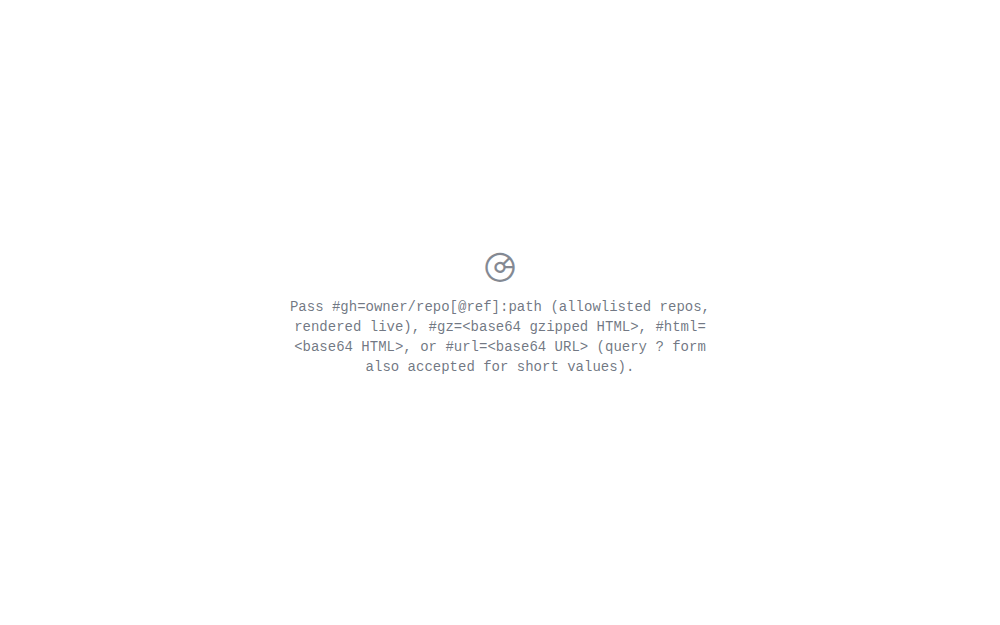
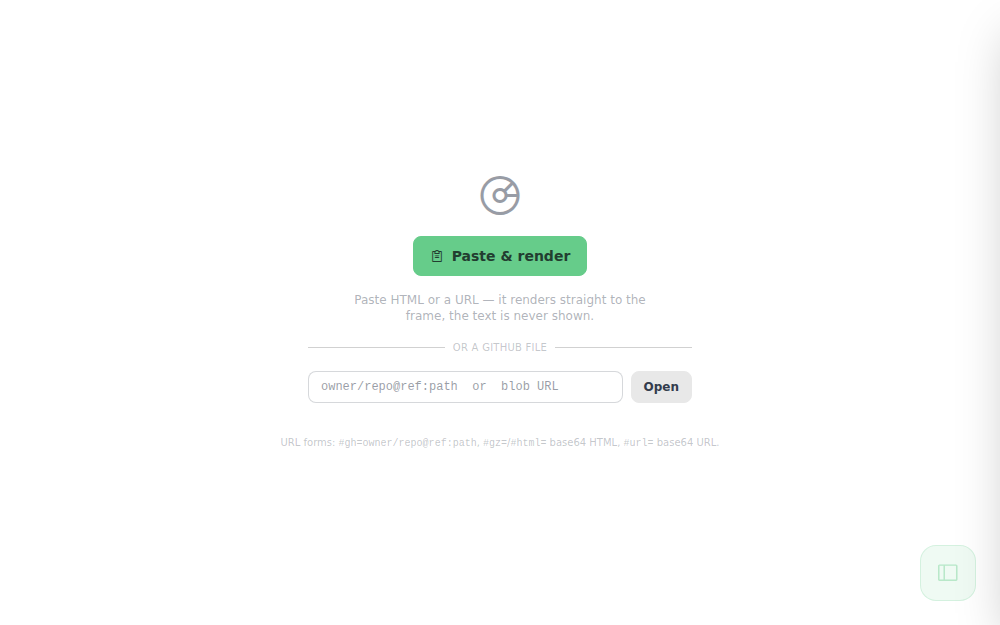
toss-render: add paste-to-render, GitHub-file input, and the FAB toolbox
Make the page dual-purpose without touching its trust model. The existing
URL-param modes (#gh=/#gz=/#html=/#url=) and the sandbox-vs-same-origin
split are unchanged; everything here is additive on-page input.

- Empty state becomes an input panel: a "Paste & render" button using the
  Clipboard API (one tap on iOS, the pasted text is never shown) plus a
  global paste listener. Pasted HTML renders sandboxed; a bare URL loads
  via #url; a github.com/.../blob/<ref>/<path> URL routes to trusted #gh=.
- A GitHub-file field accepts owner/repo[@user]:path or a blob URL and feeds
  showAddress() — private repos via the same localStorage.ghToken show-repo
  uses, gated by the OWNERS allowlist.
- A "Copy toss link" pill rebuilds the durable #gz=/#url=/#gh= bookmark for
  whatever is on screen, so a paste can become a saved link.
- The FAB (alpineComponents/fab.js) mounts as a toolbox (zip/offline export,
  component/script/console tabs, render-at-ref). It boots after the render
  logic and self-loads its kits, so a blocked CDN degrades to render-only.

Claude-Session: https://claude.ai/code/session_01L36ozjjBh6CQdDzpUkeDFH

diff --git a/pages/toss-render.html b/pages/toss-render.html
@@ -12,7 +12,8 @@
 
 <!--
   toss-render.html — full-viewport render of HTML that GitHub Pages isn't
-  serving. Formerly embed.html. Two kinds of input, with opposite trust:
+  serving. Formerly embed.html. Three ways in: a URL param, a paste, or the
+  on-page GitHub-file field. Two trust levels, opposite handling:
 
   Payload modes (the 🥏 toss — content rides in on the URL, UNTRUSTED):
     #gz=<base64url of gzipped HTML>   inline HTML, gzip-compressed
@@ -20,7 +21,8 @@
     #url=<base64 of absolute URL>     iframe src points at the URL
   Anyone can craft a toss link, so payloads render in a sandbox WITHOUT
   allow-same-origin: scripts run, but under an opaque origin that cannot
-  read this origin's localStorage (which can hold a gh token).
+  read this origin's localStorage (which can hold a gh token). Pasted HTML
+  and pasted URLs are treated as payloads too: same untrusted sandbox.
 
   Address mode (fetched by reference, TRUSTED via allowlist):
     #gh=<owner>/<repo>[@<ref>]:<path>
@@ -34,7 +36,21 @@
   below. A crafted link to someone else's repo is refused outright, so the
   token can neither fetch it nor be exposed to it. The ':' before <path> is
   unambiguous because git forbids ':' in ref names. No @ref means the
-  repo's default branch (and no ?use shim).
+  repo's default branch (and no ?use shim). The on-page field and a pasted
+  github.com/.../blob/<ref>/<path> URL both route here, so a private file is
+  one paste away.
+
+  Empty state: with no input, the page shows a panel — a "Paste & render"
+  button (Clipboard API, so it works from one tap on iOS without revealing
+  the text) and a field for a GitHub file. A global paste listener catches
+  desktop Ctrl/Cmd-V too. Whatever renders, a "Copy toss link" control then
+  rebuilds the durable bookmark (#gz=/#url=/#gh=) for what's on screen.
+
+  The FAB (alpineComponents/fab.js) mounts as a toolbox: zip/offline export,
+  the component/script/console tabs, and "Open at ref in toss-render". It
+  boots after the render logic and self-loads its own kits, so a blocked CDN
+  degrades to render-only rather than breaking the page. ?use=<ref> pins the
+  FAB's lib chain to a branch/tag/sha for previewing edits to this shell.
 
   Params are read from the fragment (#) first, then the query string (?).
   Payloads must use the fragment (a query string travels in the HTTP request
@@ -53,17 +69,45 @@
   javascript:(async()=>{const m=location.hostname==='github.com'&&location.pathname.match(/^\/([^/]+)\/([^/]+)\/blob\/([^/]+)\/(.+)$/);if(!m)return alert('Run this from a github.com file (blob) page');const[,owner,repo,ref,path]=m;let text=document.querySelector('#read-only-cursor-text-area')?.value;if(!text){try{const d=JSON.parse(document.querySelector('script[data-target="react-app.embeddedData"]')?.textContent||'{}');text=d?.payload?.blob?.rawLines?.join('\n');}catch(e){}}if(!text){try{const r=await fetch(`https://raw.githubusercontent.com/${owner}/${repo}/${ref}/${path}`);if(r.ok)text=await r.text();}catch(e){}}if(!text)return alert('Could not read the file contents from this page');if(!/<base[\s>]/i.test(text)){const dir=path.split('/').slice(0,-1).join('/');const base=`https://cdn.jsdelivr.net/gh/${owner}/${repo}@${ref}/${dir?dir+'/':''}`;text=/<head[^>]*>/i.test(text)?text.replace(/<head[^>]*>/i,h=>`${h}<base href="${base}">`):`<base href="${base}">`+text;}const buf=new Uint8Array(await new Response(new Blob([text]).stream().pipeThrough(new CompressionStream('gzip'))).arrayBuffer());let s='';for(const c of buf)s+=String.fromCharCode(c);const b64=btoa(s).replace(/\+/g,'-').replace(/\//g,'_').replace(/=+$/,'');location.href=`https://mehrlander.github.io/web-tools/pages/toss-render.html#gz=${b64}`;})()
 -->
 </head>
-<body class="h-dvh m-0">
+<body class="h-dvh m-0 bg-base-100">
 
 <iframe id="frame"
-        class="w-full h-full border-0 block bg-base-100"
+        class="w-full h-full border-0 block bg-base-100 hidden"
         referrerpolicy="no-referrer"
         allow="fullscreen"></iframe>
 
-<div id="empty" class="hidden h-full w-full flex-col items-center justify-center gap-3 p-8 text-center font-mono text-sm">
-  <i class="ph ph-disc text-4xl opacity-60"></i>
-  <p class="text-base-content/70 max-w-md" id="empty-msg"></p>
+<!-- Contextual actions, shown only while content is rendered. -->
+<div id="bar" class="hidden fixed top-2 left-1/2 -translate-x-1/2 z-40 items-center gap-1 rounded-full bg-base-100/90 backdrop-blur border border-base-300 shadow px-1.5 py-1">
+  <button id="copy-link" class="btn btn-ghost btn-xs gap-1"><i class="ph ph-link"></i><span>Copy toss link</span></button>
+  <button id="new-toss" class="btn btn-ghost btn-xs btn-circle" title="New toss"><i class="ph ph-x"></i></button>
 </div>
+
+<!-- Input panel (empty state). -->
+<div id="empty" class="hidden h-full w-full flex-col items-center justify-center gap-4 p-8 text-center">
+  <i class="ph ph-disc text-5xl opacity-50"></i>
+
+  <button id="paste-btn" class="btn btn-primary gap-2"><i class="ph ph-clipboard-text"></i>Paste &amp; render</button>
+  <div class="text-xs text-base-content/40 max-w-xs">Paste HTML or a URL — it renders straight to the frame, the text is never shown.</div>
+
+  <div class="flex items-center gap-2 w-full max-w-sm">
+    <div class="flex-1 h-px bg-base-300"></div>
+    <span class="text-[10px] uppercase tracking-wide text-base-content/30">or a GitHub file</span>
+    <div class="flex-1 h-px bg-base-300"></div>
+  </div>
+  <form id="addr-form" class="flex w-full max-w-sm gap-2">
+    <input id="addr-input" class="input input-sm input-bordered flex-1 font-mono text-xs"
+           placeholder="owner/repo@ref:path  or  blob URL" autocapitalize="off" autocorrect="off" spellcheck="false" />
+    <button class="btn btn-sm" type="submit">Open</button>
+  </form>
+
+  <p id="empty-msg" class="text-error text-xs max-w-md font-mono"></p>
+  <p class="text-[10px] text-base-content/30 max-w-md leading-relaxed">
+    URL forms: <code>#gh=owner/repo@ref:path</code>, <code>#gz=</code>/<code>#html=</code> base64 HTML, <code>#url=</code> base64 URL.
+  </p>
+</div>
+
+<!-- Toolbox: zip/offline export, component/script/console tabs, render-at-ref. -->
+<div x-data="fab()" data-path="pages/toss-render.html"></div>
 
 <script type="module">
   // Repos whose HTML may render same-origin (with token access) via #gh=.
@@ -82,43 +126,87 @@
   const frame = document.getElementById('frame');
   const empty = document.getElementById('empty');
   const msg   = document.getElementById('empty-msg');
+  const bar   = document.getElementById('bar');
 
-  function showEmpty(text) {
+  // Each render sets this to a function returning the durable bookmark for
+  // what's on screen; the "Copy toss link" button calls it.
+  let tossLinkFn = null;
+
+  const absUrl = frag => location.origin + location.pathname + frag;
+
+  function showInput(error) {
+    tossLinkFn = null;
     frame.classList.add('hidden');
+    bar.classList.add('hidden'); bar.classList.remove('flex');
     empty.classList.remove('hidden');
     empty.classList.add('flex');
-    msg.textContent = text;
+    msg.textContent = error || '';
+  }
+  // Kept name for the existing error call sites; an error just re-shows the panel.
+  const showEmpty = showInput;
+
+  function reveal() {
+    empty.classList.add('hidden'); empty.classList.remove('flex');
+    frame.classList.remove('hidden');
+    bar.classList.remove('hidden'); bar.classList.add('flex');
   }
 
-  // Decode standard or URL-safe base64 (with or without padding) to bytes.
+  // --- base64 helpers (standard or URL-safe, padded or not) ---
   function b64Bytes(s) {
     let b = s.replace(/\s/g, '').replace(/-/g, '+').replace(/_/g, '/');
     while (b.length % 4) b += '=';
     return Uint8Array.from(atob(b), c => c.charCodeAt(0));
   }
   const decodeB64 = s => new TextDecoder().decode(b64Bytes(s));
+  function b64urlEncode(bytes) {
+    let s = '';
+    for (const c of bytes) s += String.fromCharCode(c);
+    return btoa(s).replace(/\+/g, '-').replace(/\//g, '_').replace(/=+$/, '');
+  }
+  const utf8 = str => new TextEncoder().encode(str);
 
   async function gunzip(bytes) {
     const ds = new Blob([bytes]).stream().pipeThrough(new DecompressionStream('gzip'));
     return await new Response(ds).text();
   }
+  async function gzipB64(text) {
+    const buf = new Uint8Array(await new Response(
+      new Blob([text]).stream().pipeThrough(new CompressionStream('gzip'))
+    ).arrayBuffer());
+    return b64urlEncode(buf);
+  }
 
   function showHtml(html) {
     const t = html.match(/<title[^>]*>([^<]*)<\/title>/i);
     document.title = 'Toss · ' + (t ? t[1].trim() : 'inline');
-    // Sandbox without allow-same-origin: the inline HTML arrives via the URL,
-    // so it must not run as this page's origin (which can hold a gh token in
-    // localStorage). Scripts still run, but under an opaque origin.
+    // Sandbox without allow-same-origin: the inline HTML arrives via the URL
+    // or a paste, so it must not run as this page's origin (which can hold a
+    // gh token in localStorage). Scripts still run, but under an opaque origin.
     frame.setAttribute('sandbox', 'allow-scripts allow-popups allow-forms allow-modals allow-downloads');
     frame.srcdoc = html;
+    tossLinkFn = async () => absUrl('#gz=' + await gzipB64(html));
+    reveal();
   }
 
   // Same-origin render for allowlisted address mode only: the page keeps its
   // identity, so its own gh.load chain and stored token work.
-  function showTrusted(html, title) {
+  function showTrusted(html, title, addr) {
     document.title = title;
     frame.setAttribute('sandbox', 'allow-scripts allow-same-origin allow-popups allow-forms allow-modals');
     frame.srcdoc = html;
+    tossLinkFn = async () => absUrl('#gh=' + addr);
+    reveal();
+  }
+
+  function showUrl(href) {
+    const parsed = new URL(href);
+    if (!/^https?:$/.test(parsed.protocol)) throw new Error('bad protocol');
+    document.title = 'Toss · ' + parsed.host;
+    frame.removeAttribute('sandbox'); // a real cross-site load, not srcdoc
+    frame.removeAttribute('srcdoc');
+    frame.src = parsed.href;
+    tossLinkFn = async () => absUrl('#url=' + b64urlEncode(utf8(parsed.href)));
+    reveal();
   }
 
   // The fab.js frameHtml recipe: <base> so relative URLs resolve on github.io,
@@ -136,6 +224,16 @@
     if (/<head[^>]*>/i.test(text)) return text.replace(/<head[^>]*>/i, m => m + prelude);
     if (/<html[^>]*>/i.test(text)) return text.replace(/<html[^>]*>/i, m => m + '<head>' + prelude + '</head>');
     return '<head>' + prelude + '</head>' + text;
+  }
+
+  // A github.com (or raw.githubusercontent.com) file URL -> owner/repo@ref:path,
+  // so a pasted blob link routes through trusted address mode. null if not one.
+  function blobUrlToAddr(s) {
+    let m = s.match(/^https?:\/\/github\.com\/([^/]+)\/([^/]+)\/blob\/([^/]+)\/(.+?)(?:[?#].*)?$/i);
+    if (m) return m[1] + '/' + m[2] + '@' + decodeURIComponent(m[3]) + ':' + m[4];
+    m = s.match(/^https?:\/\/raw\.githubusercontent\.com\/([^/]+)\/([^/]+)\/([^/]+)\/(.+?)(?:[?#].*)?$/i);
+    if (m) return m[1] + '/' + m[2] + '@' + decodeURIComponent(m[3]) + ':' + m[4];
+    return null;
   }
 
   async function showAddress(addr) {
@@ -171,9 +269,62 @@
     if (Array.isArray(data)) return showEmpty('That path is a directory, not a file.');
     const text = decodeB64(data.content);
     showTrusted(addressHtml(text, { owner, name, ref, path }),
-      'Toss · ' + name + (ref ? '@' + ref : '') + '/' + path);
+      'Toss · ' + name + (ref ? '@' + ref : '') + '/' + path, addr);
   }
 
+  // Route a pasted string: a github blob URL -> trusted address, a bare URL ->
+  // #url load, anything else -> untrusted HTML. Used by both paste paths.
+  function renderInput(raw) {
+    const text = (raw || '').trim();
+    if (!text) return;
+    const addr = blobUrlToAddr(text);
+    if (addr) return showAddress(addr);
+    if (/^https?:\/\/\S+$/i.test(text)) {
+      try { return showUrl(text); }
+      catch (e) { return showEmpty('Decoded value is not a valid http(s) URL: ' + text); }
+    }
+    showHtml(text);
+  }
+
+  // --- input panel wiring ---
+  document.getElementById('paste-btn').addEventListener('click', async () => {
+    try {
+      const text = await navigator.clipboard.readText();
+      if (text && text.trim()) renderInput(text);
+      else showEmpty('Clipboard is empty — copy some HTML or a link first.');
+    } catch (e) {
+      showEmpty('Could not read the clipboard. Paste with Ctrl/Cmd-V, or use a toss link.');
+    }
+  });
+  document.getElementById('addr-form').addEventListener('submit', e => {
+    e.preventDefault();
+    const v = document.getElementById('addr-input').value.trim();
+    if (v) showAddress(blobUrlToAddr(v) || v);
+  });
+  // Desktop convenience: paste anywhere off a field renders straight away.
+  window.addEventListener('paste', e => {
+    const t = e.target;
+    if (t && (t.tagName === 'INPUT' || t.tagName === 'TEXTAREA' || t.isContentEditable)) return;
+    const text = (e.clipboardData || window.clipboardData)?.getData('text/plain');
+    if (text && text.trim()) { e.preventDefault(); renderInput(text); }
+  });
+
+  document.getElementById('copy-link').addEventListener('click', async e => {
+    if (!tossLinkFn) return;
+    const span = e.currentTarget.querySelector('span');
+    try {
+      await navigator.clipboard.writeText(await tossLinkFn());
+      const o = span.textContent; span.textContent = 'Copied'; setTimeout(() => span.textContent = o, 1200);
+    } catch (err) {
+      const o = span.textContent; span.textContent = 'Copy failed'; setTimeout(() => span.textContent = o, 1500);
+    }
+  });
+  document.getElementById('new-toss').addEventListener('click', () => {
+    // Drop any params and return to a clean panel.
+    location.href = location.pathname;
+  });
+
+  // --- route the initial URL ---
   const gh   = param('gh');
   const gz   = param('gz');
   const html = param('html');
@@ -202,19 +353,25 @@
       decoded = null;
     }
     if (decoded) {
-      try {
-        const parsed = new URL(decoded);
-        if (!/^https?:$/.test(parsed.protocol)) throw new Error('bad protocol');
-        document.title = 'Toss · ' + parsed.host;
-        frame.src = parsed.href;
-      } catch (e) {
-        showEmpty('Decoded value is not a valid http(s) URL: ' + decoded);
-      }
+      try { showUrl(decoded); }
+      catch (e) { showEmpty('Decoded value is not a valid http(s) URL: ' + decoded); }
     }
   } else {
-    showEmpty('Pass #gh=owner/repo[@ref]:path (allowlisted repos, rendered live), ' +
-              '#gz=<base64 gzipped HTML>, #html=<base64 HTML>, or #url=<base64 URL> ' +
-              '(query ? form also accepted for short values).');
+    showInput();
+  }
+</script>
+
+<script type="module">
+  // Mount the FAB toolbox. Runs after the render logic above, and the FAB
+  // self-loads its own kits, so a blocked CDN degrades to render-only rather
+  // than breaking the page. ?use=<ref> pins this shell's lib chain.
+  try {
+    const ref = new URLSearchParams(location.search).get('use') || 'main';
+    await import(`https://cdn.jsdelivr.net/gh/mehrlander/web-tools@${ref}/lib/gh-api.js`);
+    await gh.load('alpineComponents/fab.js');
+    await gh.load('alpine-bundle.js');
+  } catch (e) {
+    console.warn('FAB toolbox failed to load; rendering still works.', e);
   }
 </script>
 

diff --git a/BRANCH-GUIDE.md b/BRANCH-GUIDE.md
@@ -1,0 +1,19 @@
+# Branch guide: claude/unmerged-branches-review-bkn37j
+
+Make `pages/toss-render.html` dual-purpose: keep the URL-param render modes, but add on-page input (paste-to-render + a GitHub-file field) and mount the FAB toolbox, so it's useful from an iPhone without hand-built links.
+
+⭐ [toss-render on this branch](https://mehrlander.github.io/web-tools/pages/toss-render.html?use=claude/unmerged-branches-review-bkn37j)
+
+**Changed:**
+- pages/toss-render.html ([new](https://github.com/mehrlander/web-tools/blob/claude/unmerged-branches-review-bkn37j/pages/toss-render.html), [main](https://github.com/mehrlander/web-tools/blob/main/pages/toss-render.html), [diff](https://github.com/mehrlander/web-tools/commits/claude/unmerged-branches-review-bkn37j/pages/toss-render.html))
+
+**What's new (all additive; existing `#gh=`/`#gz=`/`#html=`/`#url=` and the token/sandbox model unchanged):**
+- "Paste & render" button (Clipboard API, one-tap on iOS, text never shown) + a global `paste` listener. HTML → sandboxed; a bare URL → `#url`; a `github.com/.../blob/...` URL → trusted `#gh=`.
+- On-page GitHub-file field: `owner/repo[@ref]:path` or a blob URL → `showAddress()` (private repos via the same `localStorage.ghToken` show-repo uses; `OWNERS=['mehrlander']` allowlist).
+- "Copy toss link" pill: rebuilds the durable `#gz=`/`#url=`/`#gh=` bookmark for whatever is on screen.
+- FAB (`alpineComponents/fab.js`) mounted for zip/offline export + its tabs. Boots after the render logic and self-loads its kits, so a blocked CDN degrades to render-only.
+
+**Next steps / open threads:**
+- Verified headless: empty panel, html/paste render (+copy bar), and `#gh=` same-origin render all good. Not yet tested on a real iPhone (the Clipboard API `readText()` gesture path is the one thing only a device confirms).
+- Thumbnail refreshed this session; pages index regenerated by the commit hook.
+- Possible follow-up: surface the paste-derived `#gz=` link as a one-tap "copy" right after paste (currently in the top pill), and consider a paste affordance inside the GitHub field for tokens.